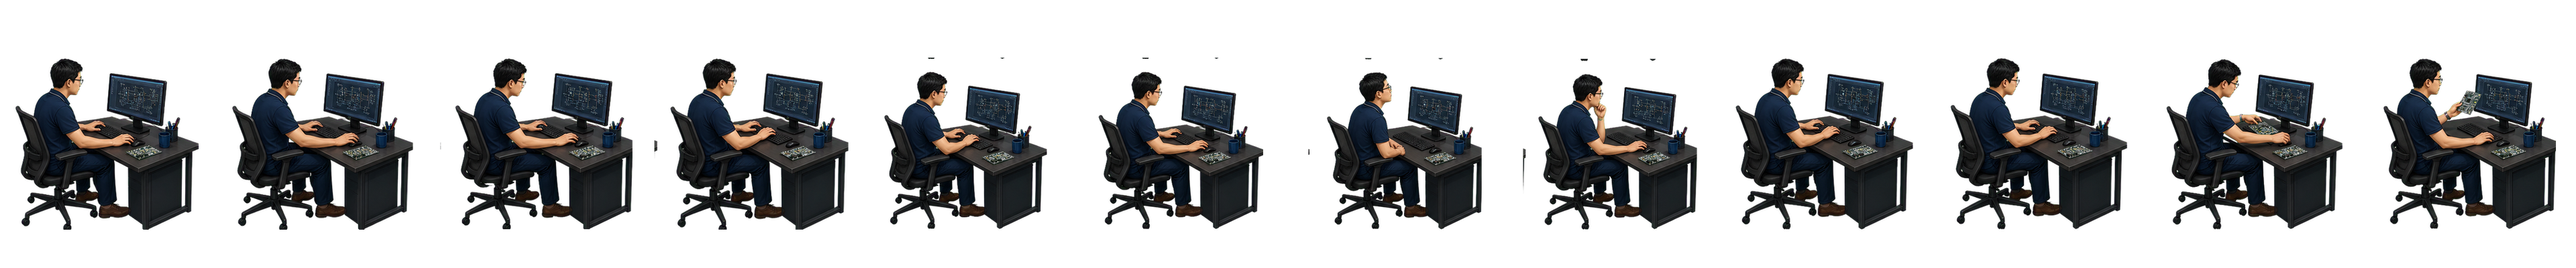
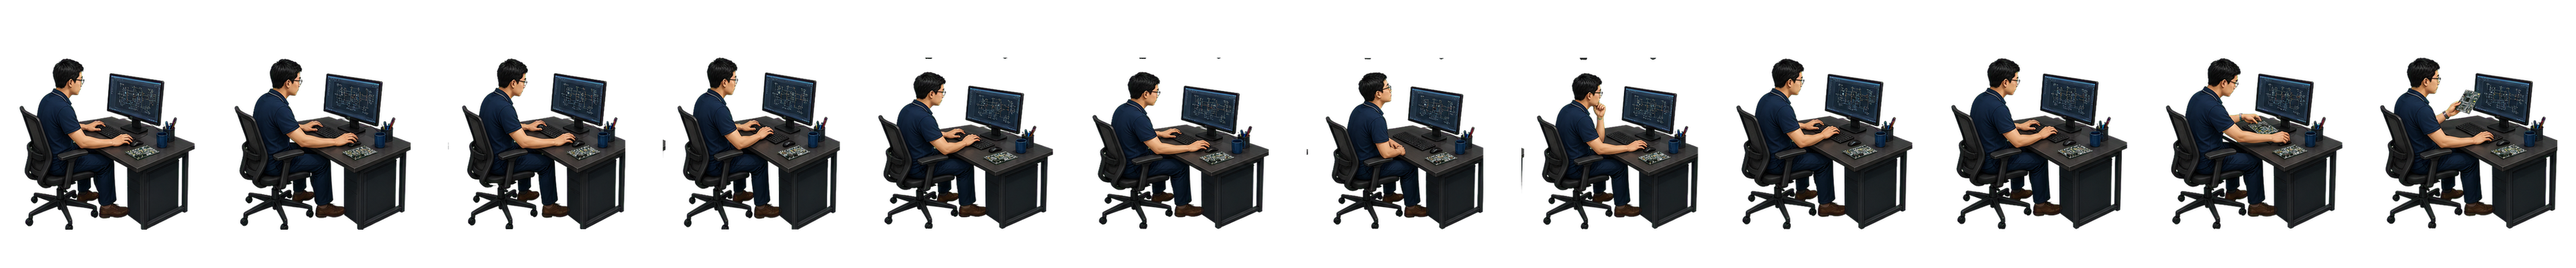
Normalize Agent sprite frame sizes

diff --git a/dat-ai-digital-office/tools/align-agent-sprites.py b/dat-ai-digital-office/tools/align-agent-sprites.py
@@ -25,6 +25,7 @@ def parse_args() -> argparse.Namespace:
     parser.add_argument('--agent', action='append', dest='agents', help='Agent folder name; repeat to target several agents.')
     parser.add_argument('--scale', type=float, default=0.88, help='Uniform pre-alignment scale; default: 0.88.')
     parser.add_argument('--normalize-height', action='store_true', help='Normalize each frame alpha height to the median height of its state.')
+    parser.add_argument('--normalize-width', action='store_true', help='Normalize each frame alpha width to the median width of its state.')
     parser.add_argument('--write', action='store_true', help='Write the corrected PNG files. Without this flag, only validate.')
     return parser.parse_args()
 
@@ -36,10 +37,22 @@ def alpha_height(frame: Image.Image) -> int:
     return bbox[3] - bbox[1]
 
 
-def aligned_frame(frame: Image.Image, frame_width: int, frame_height: int, anchor_x: int, anchor_y: int, scale: float) -> Image.Image:
-    scaled = frame.convert('RGBA').resize((round(frame_width * scale), round(frame_height * scale)), Image.Resampling.LANCZOS)
+def alpha_width(frame: Image.Image) -> int:
+    bbox = frame.getchannel('A').getbbox()
+    if not bbox:
+        raise ValueError('empty alpha frame')
+    return bbox[2] - bbox[0]
+
+
+def aligned_frame(frame: Image.Image, frame_width: int, frame_height: int, anchor_x: int, anchor_y: int, scale_x: float, scale_y: float) -> Image.Image:
+    scaled = frame.convert('RGBA').resize((round(frame_width * scale_x), round(frame_height * scale_y)), Image.Resampling.LANCZOS)
     padded = Image.new('RGBA', (frame_width, frame_height), (0, 0, 0, 0))
-    padded.alpha_composite(scaled, ((frame_width - scaled.width) // 2, (frame_height - scaled.height) // 2))
+    origin_x = (frame_width - scaled.width) // 2
+    origin_y = (frame_height - scaled.height) // 2
+    source_bbox = scaled.getchannel('A').getbbox()
+    if source_bbox and (source_bbox[0] + origin_x < 0 or source_bbox[2] + origin_x > frame_width or source_bbox[1] + origin_y < 0 or source_bbox[3] + origin_y > frame_height):
+        raise ValueError('normalization would crop visible pixels; lower --scale or use a wider source canvas')
+    padded.alpha_composite(scaled, (origin_x, origin_y))
     bbox = padded.getchannel('A').getbbox()
     if not bbox:
         raise ValueError('empty alpha frame')
@@ -68,12 +81,16 @@ def process_agent(folder: Path, args: argparse.Namespace) -> None:
             raise ValueError(f'{path}: unexpected sprite sheet dimensions')
         source_frames = [sheet.crop((index * frame_width, 0, (index + 1) * frame_width, frame_height)) for index in range(frames)]
         target_height = median(alpha_height(frame) for frame in source_frames)
+        target_width = median(alpha_width(frame) for frame in source_frames)
         output = Image.new('RGBA', sheet.size, (0, 0, 0, 0))
         for index, frame in enumerate(source_frames):
-            scale = args.scale
+            scale_x = args.scale
+            scale_y = args.scale
             if args.normalize_height:
-                scale *= target_height / alpha_height(frame)
-            output.alpha_composite(aligned_frame(frame, frame_width, frame_height, anchor_x, anchor_y, scale), (index * frame_width, 0))
+                scale_y *= target_height / alpha_height(frame)
+            if args.normalize_width:
+                scale_x *= target_width / alpha_width(frame)
+            output.alpha_composite(aligned_frame(frame, frame_width, frame_height, anchor_x, anchor_y, scale_x, scale_y), (index * frame_width, 0))
         print(f'{folder.name}/{state}: anchor ({anchor_x}, {anchor_y}), scale {args.scale:.2f}')
         if args.write:
             temporary = path.with_suffix('.aligned.png')

diff --git a/dat-ai-digital-office/tools/check-agent-sprites.py b/dat-ai-digital-office/tools/check-agent-sprites.py
@@ -133,9 +133,10 @@ def main() -> int:
                 alignment = state['alignment']
                 message = (
                     f"  {state['state']}: center Δx {alignment['centerXSpread']:.1f}px, "
-                    f"Δy {alignment['centerYSpread']:.1f}px, bottom Δ {alignment['bottomSpread']:.1f}px"
+                    f"Δy {alignment['centerYSpread']:.1f}px, bottom Δ {alignment['bottomSpread']:.1f}px, "
+                    f"size Δw {alignment['widthSpread']:.1f}px, Δh {alignment['heightSpread']:.1f}px"
                 )
-                is_misaligned = alignment['centerXSpread'] > 8 or alignment['centerYSpread'] > 12 or alignment['bottomSpread'] > 6
+                is_misaligned = alignment['centerXSpread'] > 8 or alignment['centerYSpread'] > 12 or alignment['bottomSpread'] > 6 or alignment['widthSpread'] > 10 or alignment['heightSpread'] > 12
                 print(message + ('  WARNING: alignment drift' if is_misaligned else '  OK'))
                 warnings += int(is_misaligned)
 

diff --git a/dat-ai-digital-office/dat-ai-digital-office.php b/dat-ai-digital-office/dat-ai-digital-office.php
@@ -2,7 +2,7 @@
 /**
  * Plugin Name: LM AI Digital Office
  * Description: Văn phòng số 2.5D mô phỏng nhân viên và AI Agent phối hợp vận hành doanh nghiệp.
- * Version: 1.2.1
+ * Version: 1.2.2
  * Requires at least: 6.4
  * Requires PHP: 8.0
  * Author: DAT
@@ -13,8 +13,8 @@ if ( ! defined( 'ABSPATH' ) ) {
 	exit;
 }
 
-define( 'DAT_AI_OFFICE_VERSION', '1.2.1' );
-define( 'DAT_AI_OFFICE_BUILD', '2026.08.07-aligned-agent-sprites-01' );
+define( 'DAT_AI_OFFICE_VERSION', '1.2.2' );
+define( 'DAT_AI_OFFICE_BUILD', '2026.08.07-normalized-agent-sprites-01' );
 define( 'DAT_AI_OFFICE_FILE', __FILE__ );
 define( 'DAT_AI_OFFICE_DIR', plugin_dir_path( __FILE__ ) );
 define( 'DAT_AI_OFFICE_URL', plugin_dir_url( __FILE__ ) );

diff --git a/dat-ai-digital-office/docs/SPRITES-AND-DATA.md b/dat-ai-digital-office/docs/SPRITES-AND-DATA.md
@@ -58,10 +58,10 @@ Hai utility phát triển nằm trong `tools/`, không được tải bởi Word
 ```bash
 python -m pip install pillow
 python tools/check-agent-sprites.py --strict
-python tools/align-agent-sprites.py --scale 0.88 --normalize-height --write
+python tools/align-agent-sprites.py --scale 0.88 --normalize-height --normalize-width --write
 ```
 
-`check-agent-sprites.py` kiểm tra kích thước sheet, alpha canvas, bounding box, tâm nhân vật và baseline giữa các frame. Utility báo lỗi nếu file thiếu/sai kích thước, và cảnh báo nếu tâm lệch quá 8px, tâm dọc quá 12px hoặc baseline lệch quá 6px.
+`check-agent-sprites.py` kiểm tra kích thước sheet, alpha canvas, bounding box, tâm nhân vật, baseline và kích thước object giữa các frame. Utility báo lỗi nếu file thiếu/sai kích thước, và cảnh báo nếu tâm lệch quá 8px, tâm dọc quá 12px, baseline lệch quá 6px hoặc object thay đổi quá 10px chiều rộng/12px chiều cao.
 
 ## Thêm Agent mới
 
